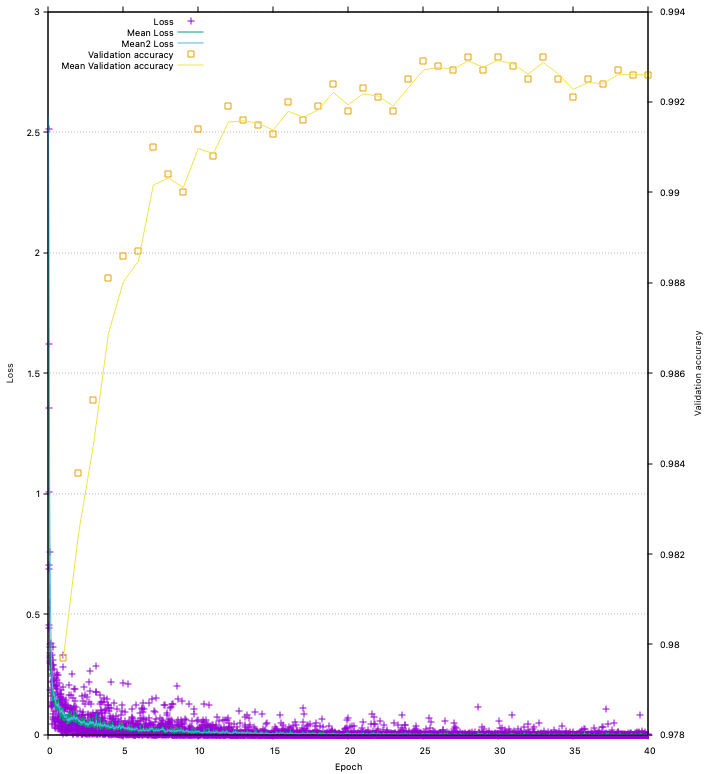
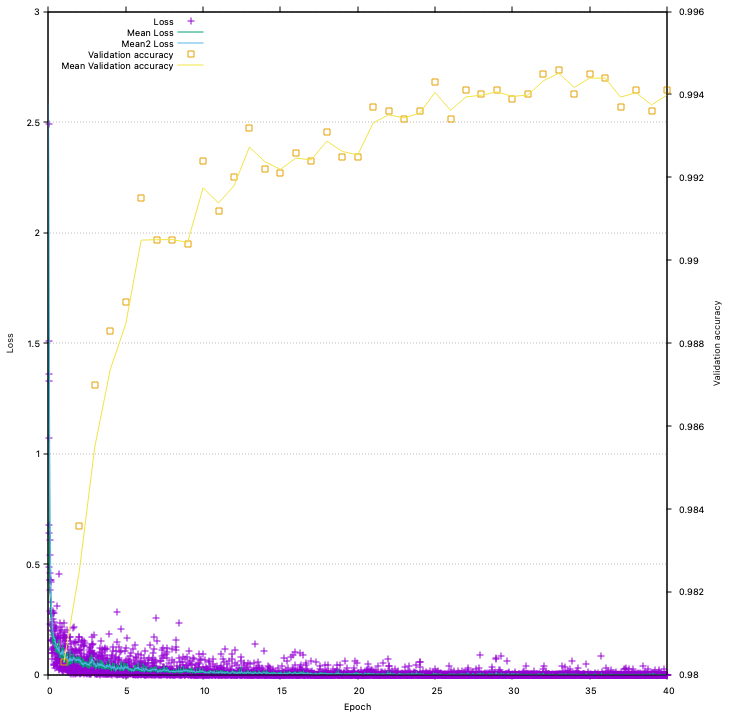
more precision with decaying L2-regularization

diff --git a/cpmnist/README.md b/cpmnist/README.md
@@ -21,7 +21,7 @@ gnuplot ../plot/liveplot.gnu
 ```
 ![40 epochs](../doc/images/mnist-graph.png)
 
-Note: Currently, gnuplot can only show graphs after 1. episode is complete.
+Note: `gnuplot` can only show graphs after 1. episode is complete.
 
 ## Output
 ```bash
@@ -68,48 +68,48 @@ sm1: (10)[10] -> (1)[1]
 Topology-check for MultiLayer: ok.
 
 Training net: data-size: 50000, chunks: 1000, batch_size: 50, threads: 8 (bz*ch): 50000
-Ep: 1, Time: 161s, (20s test) loss:0.0924 err(val):0.0203 acc(val):0.9797
-Ep: 2, Time: 161s, (20s test) loss:0.0623 err(val):0.0162 acc(val):0.9838
-Ep: 3, Time: 160s, (21s test) loss:0.0488 err(val):0.0146 acc(val):0.9854
-Ep: 4, Time: 160s, (20s test) loss:0.0367 err(val):0.0119 acc(val):0.9881
-Ep: 5, Time: 160s, (20s test) loss:0.0335 err(val):0.0114 acc(val):0.9886
-Ep: 6, Time: 159s, (20s test) loss:0.0195 err(val):0.0113 acc(val):0.9887
-Ep: 7, Time: 159s, (20s test) loss:0.0232 err(val):0.0090 acc(val):0.9910
-Ep: 8, Time: 161s, (20s test) loss:0.0177 err(val):0.0096 acc(val):0.9904
-Ep: 9, Time: 165s, (25s test) loss:0.0151 err(val):0.0100 acc(val):0.9900
-Ep: 10, Time: 159s, (20s test) loss:0.0156 err(val):0.0086 acc(val):0.9914
-Ep: 11, Time: 160s, (20s test) loss:0.0096 err(val):0.0092 acc(val):0.9908
-Ep: 12, Time: 160s, (20s test) loss:0.0080 err(val):0.0081 acc(val):0.9919
-Ep: 13, Time: 163s, (23s test) loss:0.0088 err(val):0.0084 acc(val):0.9916
-Ep: 14, Time: 160s, (20s test) loss:0.0065 err(val):0.0085 acc(val):0.9915
-Ep: 15, Time: 162s, (21s test) loss:0.0048 err(val):0.0087 acc(val):0.9913
-Ep: 16, Time: 160s, (20s test) loss:0.0033 err(val):0.0080 acc(val):0.9920
-Ep: 17, Time: 158s, (20s test) loss:0.0047 err(val):0.0084 acc(val):0.9916
-Ep: 18, Time: 159s, (20s test) loss:0.0027 err(val):0.0081 acc(val):0.9919
-Ep: 19, Time: 165s, (25s test) loss:0.0053 err(val):0.0076 acc(val):0.9924
-Ep: 20, Time: 160s, (20s test) loss:0.0068 err(val):0.0082 acc(val):0.9918
-Ep: 21, Time: 160s, (20s test) loss:0.0039 err(val):0.0077 acc(val):0.9923
-Ep: 22, Time: 160s, (20s test) loss:0.0041 err(val):0.0079 acc(val):0.9921
-Ep: 23, Time: 158s, (19s test) loss:0.0029 err(val):0.0082 acc(val):0.9918
-Ep: 24, Time: 158s, (20s test) loss:0.0023 err(val):0.0075 acc(val):0.9925
-Ep: 25, Time: 160s, (20s test) loss:0.0024 err(val):0.0071 acc(val):0.9929
-Ep: 26, Time: 159s, (20s test) loss:0.0018 err(val):0.0072 acc(val):0.9928
-Ep: 27, Time: 159s, (20s test) loss:0.0012 err(val):0.0073 acc(val):0.9927
-Ep: 28, Time: 159s, (20s test) loss:0.0014 err(val):0.0070 acc(val):0.9930
-Ep: 29, Time: 158s, (20s test) loss:0.0024 err(val):0.0073 acc(val):0.9927
-Ep: 30, Time: 160s, (20s test) loss:0.0014 err(val):0.0070 acc(val):0.9930
-Ep: 31, Time: 160s, (20s test) loss:0.0027 err(val):0.0072 acc(val):0.9928
-Ep: 32, Time: 159s, (20s test) loss:0.0021 err(val):0.0075 acc(val):0.9925
-Ep: 33, Time: 160s, (20s test) loss:0.0009 err(val):0.0070 acc(val):0.9930
-Ep: 34, Time: 160s, (20s test) loss:0.0011 err(val):0.0075 acc(val):0.9925
-Ep: 35, Time: 159s, (20s test) loss:0.0015 err(val):0.0079 acc(val):0.9921
-Ep: 36, Time: 161s, (21s test) loss:0.0016 err(val):0.0075 acc(val):0.9925
-Ep: 37, Time: 161s, (20s test) loss:0.0016 err(val):0.0076 acc(val):0.9924
-Ep: 38, Time: 162s, (20s test) loss:0.0016 err(val):0.0073 acc(val):0.9927
-Ep: 39, Time: 161s, (20s test) loss:0.0013 err(val):0.0074 acc(val):0.9926
-Ep: 40, Time: 162s, (21s test) loss:0.0007 err(val):0.0074 acc(val):0.9926
+Ep: 1, Time: 155s, (16s test) loss:0.1003 err(val):0.0197 acc(val):0.9803
+Ep: 2, Time: 155s, (17s test) loss:0.0697 err(val):0.0164 acc(val):0.9836
+Ep: 3, Time: 157s, (17s test) loss:0.0522 err(val):0.0130 acc(val):0.9870
+Ep: 4, Time: 155s, (16s test) loss:0.0395 err(val):0.0117 acc(val):0.9883
+Ep: 5, Time: 156s, (17s test) loss:0.0335 err(val):0.0110 acc(val):0.9890
+Ep: 6, Time: 154s, (16s test) loss:0.0234 err(val):0.0085 acc(val):0.9915
+Ep: 7, Time: 156s, (17s test) loss:0.0255 err(val):0.0095 acc(val):0.9905
+Ep: 8, Time: 156s, (17s test) loss:0.0158 err(val):0.0095 acc(val):0.9905
+Ep: 9, Time: 195s, (18s test) loss:0.0160 err(val):0.0096 acc(val):0.9904
+Ep: 10, Time: 162s, (17s test) loss:0.0176 err(val):0.0076 acc(val):0.9924
+Ep: 11, Time: 159s, (18s test) loss:0.0104 err(val):0.0088 acc(val):0.9912
+Ep: 12, Time: 168s, (17s test) loss:0.0095 err(val):0.0080 acc(val):0.9920
+Ep: 13, Time: 160s, (17s test) loss:0.0089 err(val):0.0068 acc(val):0.9932
+Ep: 14, Time: 156s, (16s test) loss:0.0122 err(val):0.0078 acc(val):0.9922
+Ep: 15, Time: 156s, (17s test) loss:0.0058 err(val):0.0079 acc(val):0.9921
+Ep: 16, Time: 158s, (16s test) loss:0.0083 err(val):0.0074 acc(val):0.9926
+Ep: 17, Time: 158s, (17s test) loss:0.0041 err(val):0.0076 acc(val):0.9924
+Ep: 18, Time: 158s, (16s test) loss:0.0032 err(val):0.0069 acc(val):0.9931
+Ep: 19, Time: 158s, (17s test) loss:0.0046 err(val):0.0075 acc(val):0.9925
+Ep: 20, Time: 156s, (16s test) loss:0.0050 err(val):0.0075 acc(val):0.9925
+Ep: 21, Time: 158s, (17s test) loss:0.0035 err(val):0.0063 acc(val):0.9937
+Ep: 22, Time: 159s, (16s test) loss:0.0051 err(val):0.0064 acc(val):0.9936
+Ep: 23, Time: 156s, (17s test) loss:0.0022 err(val):0.0066 acc(val):0.9934
+Ep: 24, Time: 165s, (17s test) loss:0.0034 err(val):0.0064 acc(val):0.9936
+Ep: 25, Time: 164s, (16s test) loss:0.0030 err(val):0.0057 acc(val):0.9943
+Ep: 26, Time: 160s, (16s test) loss:0.0025 err(val):0.0066 acc(val):0.9934
+Ep: 27, Time: 160s, (16s test) loss:0.0024 err(val):0.0059 acc(val):0.9941
+Ep: 28, Time: 156s, (16s test) loss:0.0024 err(val):0.0060 acc(val):0.9940
+Ep: 29, Time: 156s, (16s test) loss:0.0038 err(val):0.0059 acc(val):0.9941
+Ep: 30, Time: 155s, (16s test) loss:0.0024 err(val):0.0061 acc(val):0.9939
+Ep: 31, Time: 156s, (16s test) loss:0.0011 err(val):0.0060 acc(val):0.9940
+Ep: 32, Time: 155s, (17s test) loss:0.0025 err(val):0.0055 acc(val):0.9945
+Ep: 33, Time: 155s, (17s test) loss:0.0006 err(val):0.0054 acc(val):0.9946
+Ep: 34, Time: 155s, (16s test) loss:0.0015 err(val):0.0060 acc(val):0.9940
+Ep: 35, Time: 156s, (17s test) loss:0.0008 err(val):0.0055 acc(val):0.9945
+Ep: 36, Time: 156s, (16s test) loss:0.0010 err(val):0.0056 acc(val):0.9944
+Ep: 37, Time: 155s, (16s test) loss:0.0007 err(val):0.0063 acc(val):0.9937
+Ep: 38, Time: 155s, (16s test) loss:0.0008 err(val):0.0059 acc(val):0.9941
+Ep: 39, Time: 155s, (16s test) loss:0.0010 err(val):0.0064 acc(val):0.9936
+Ep: 40, Time: 155s, (16s test) loss:0.0005 err(val):0.0059 acc(val):0.9941
 Final results on MNIST after 40.0000 epochs:
-      Train-error: 0.0000 train-acc: 1.0000
- Validation-error: 0.0074   val-acc: 0.9926
-       Test-error: 0.0080  test-acc: 0.9920
+      Train-error: 0.0001 train-acc: 0.9999
+ Validation-error: 0.0059   val-acc: 0.9941
+       Test-error: 0.0066  test-acc: 0.9934
 ```
